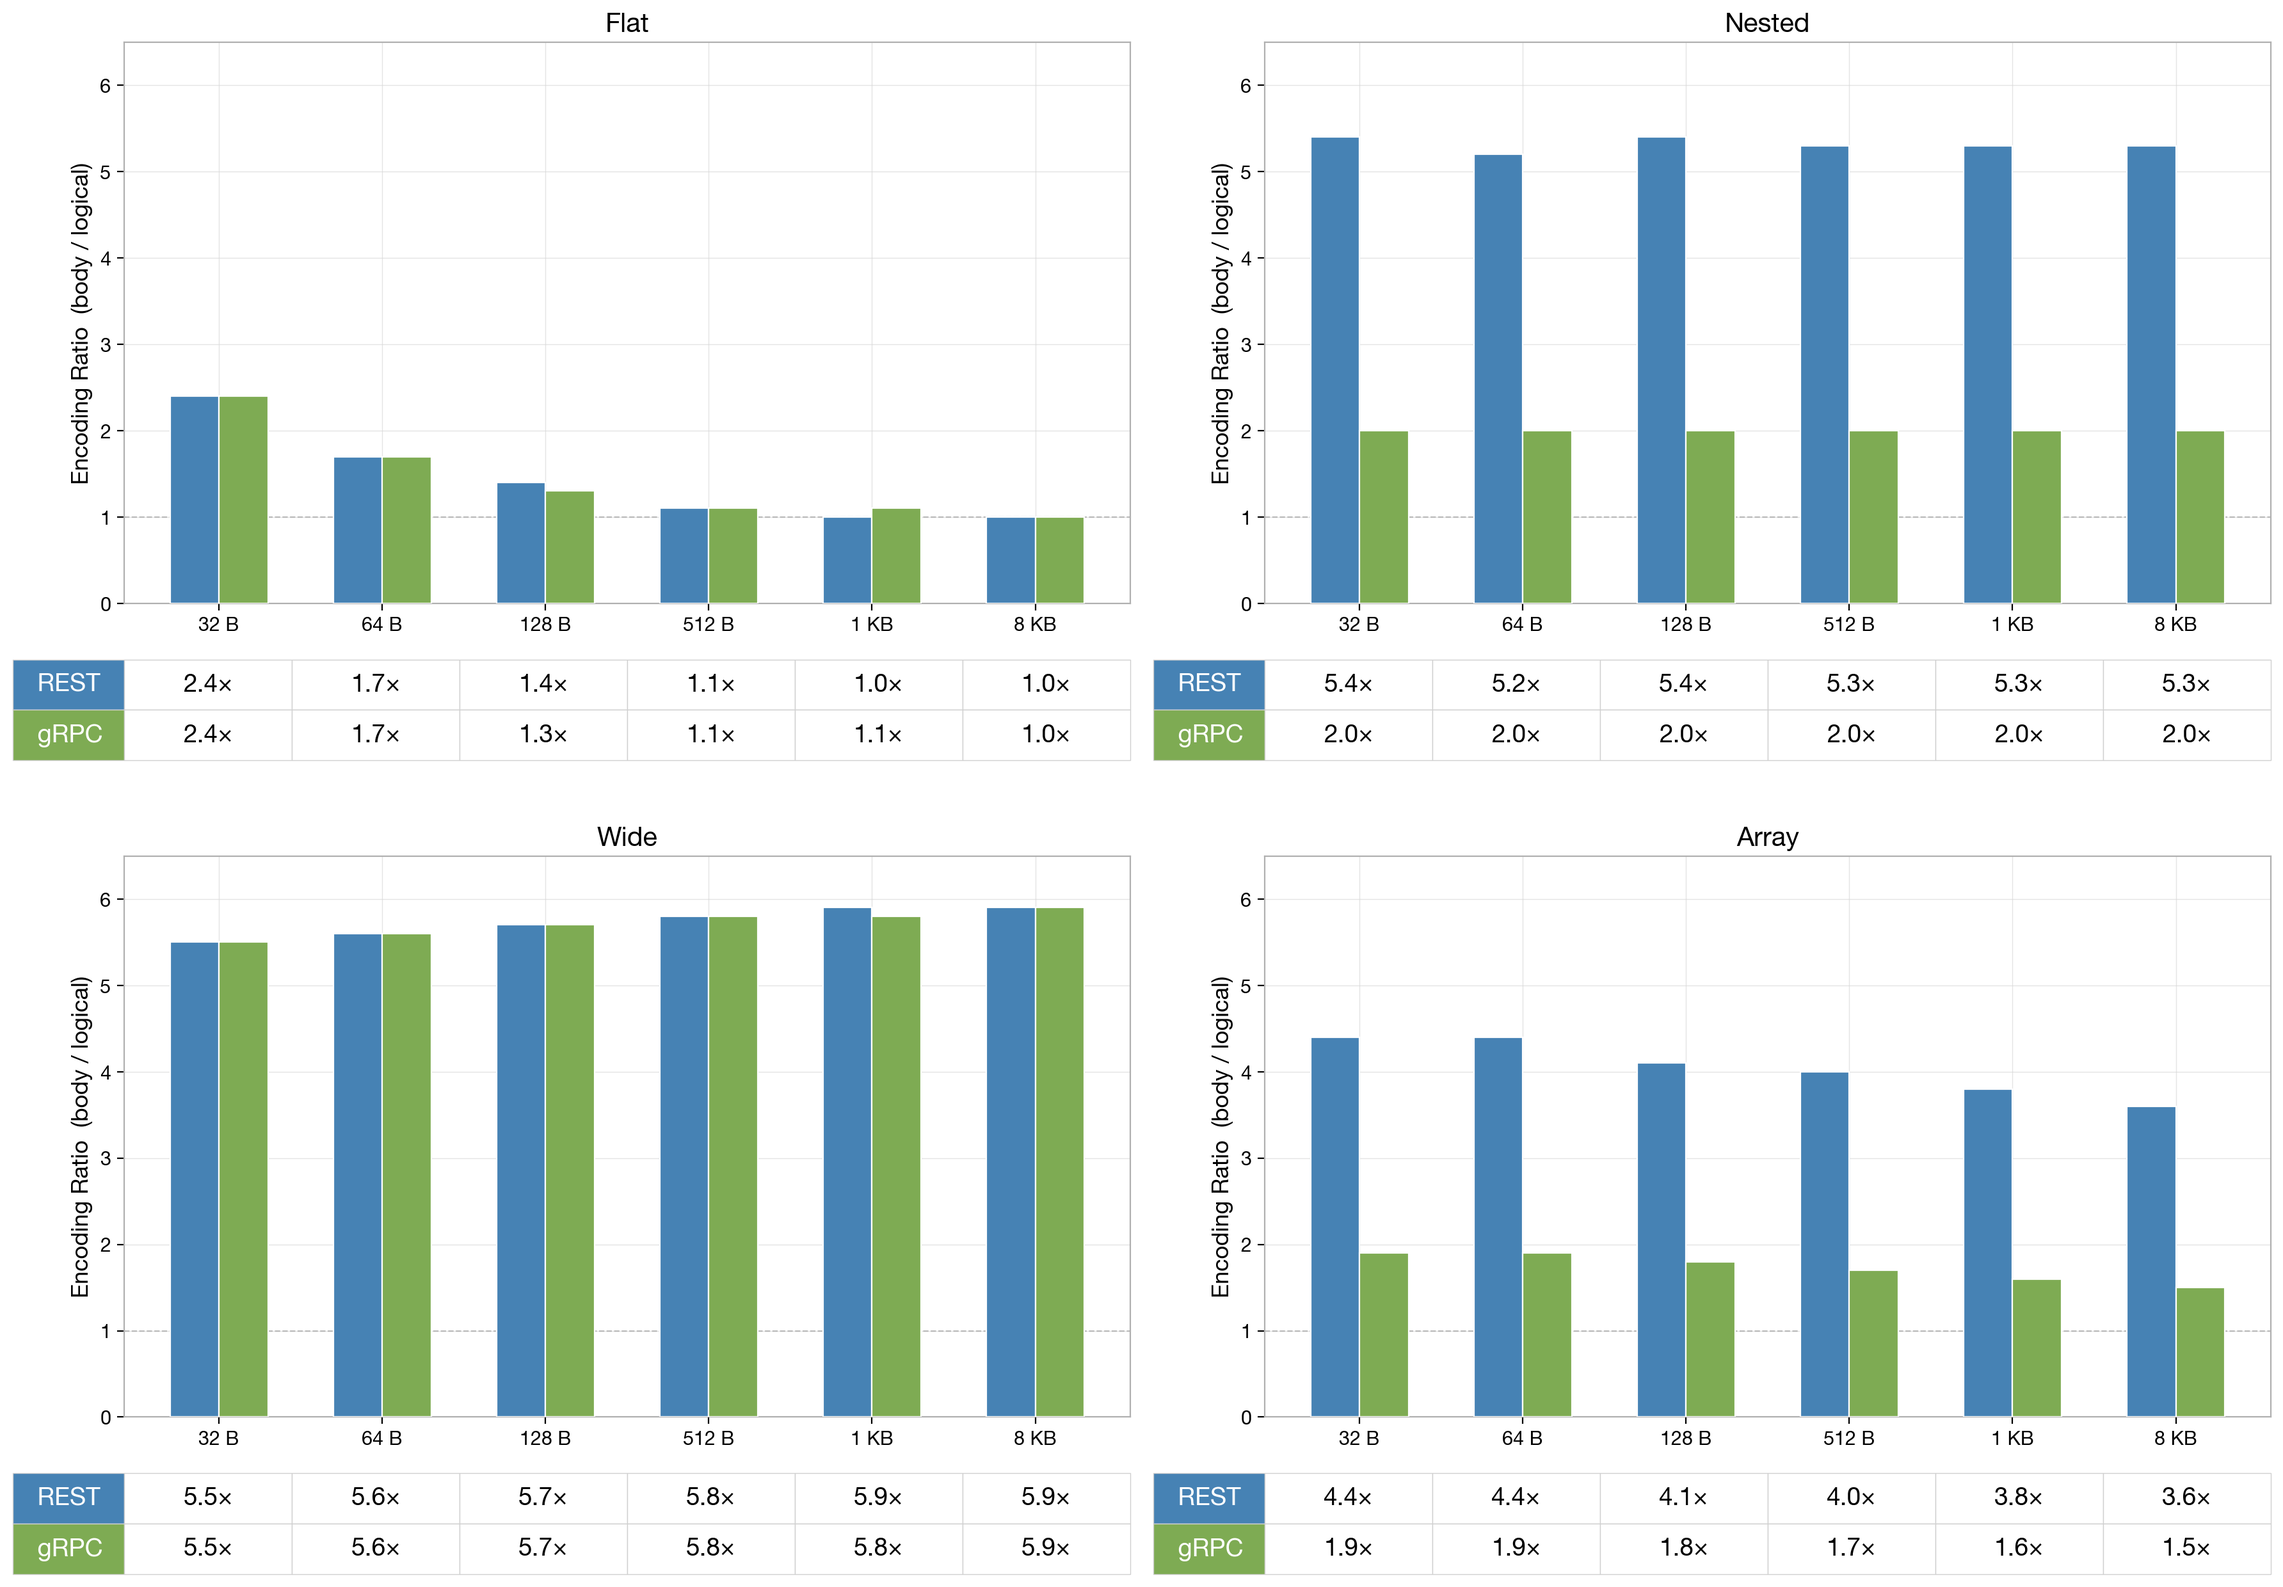
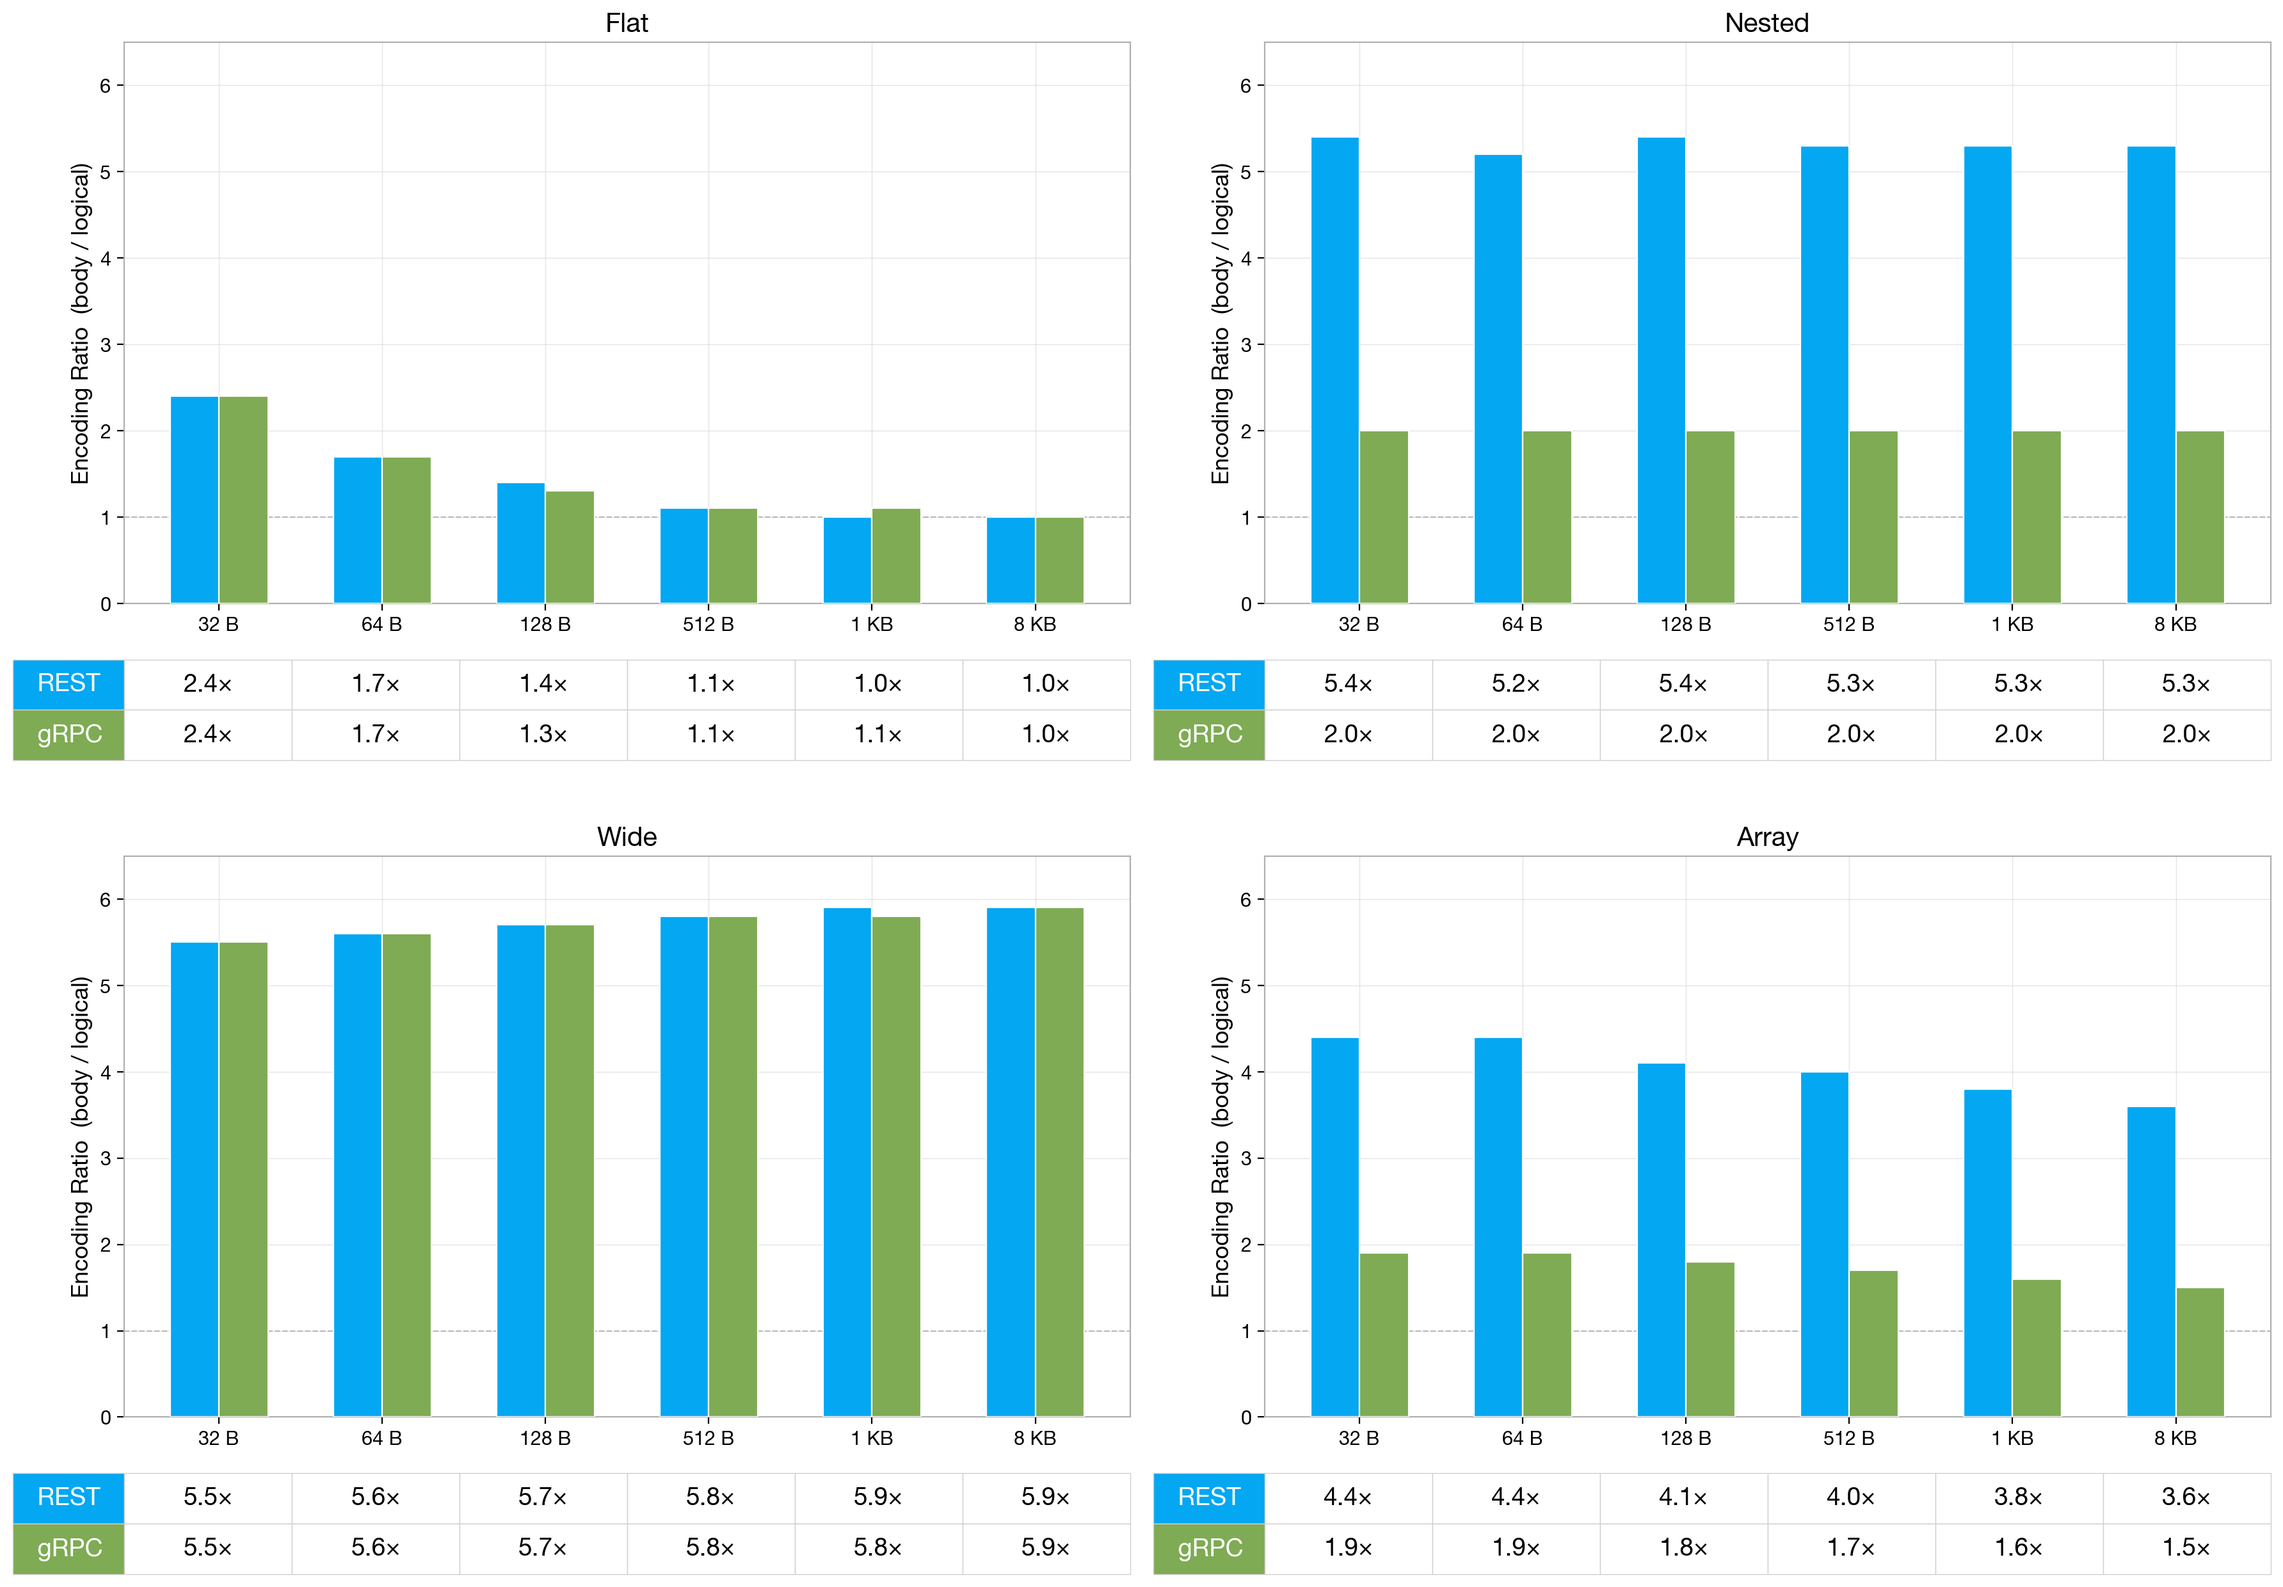
plot color blue

diff --git a/analysis/gen_lab_bars.py b/analysis/gen_lab_bars.py
@@ -17,7 +17,7 @@ SIZES = [32, 64, 128, 512, 1024, 8192]
 SIZE_LABELS = ["32 B", "64 B", "128 B", "512 B", "1 KB", "8 KB"]
 
 # ── Muted, professional palette (Excel-like) ─────────────────────────
-REST_COLOR = "#4682B4"   # steel blue
+REST_COLOR = "#04A7F2"   # steel blue
 GRPC_COLOR = "#7EAB53"   # sampled green
 BAR_WIDTH = 0.30
 DPI = 200
